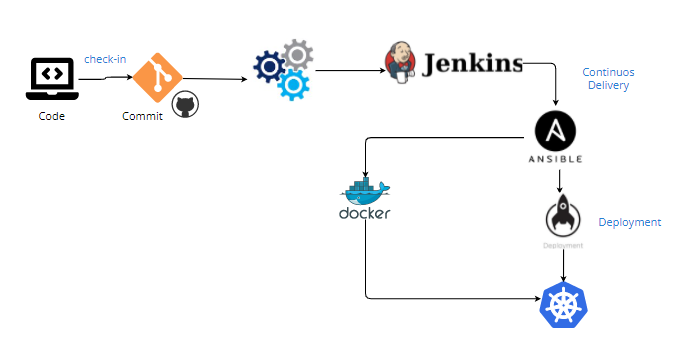
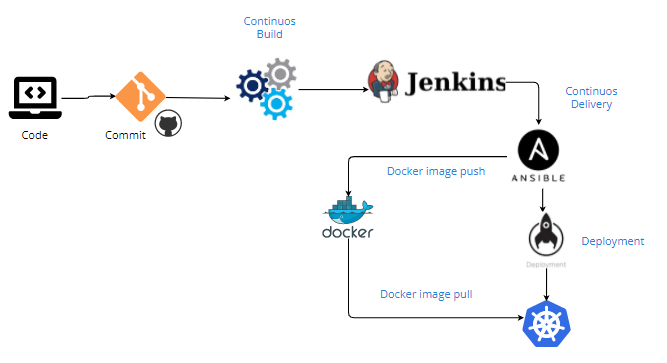
Se agregó imagen de arquitectura

diff --git a/Documentacion.md b/Documentacion.md
@@ -141,10 +141,13 @@ En el sitio web tendremos una sección de quinielas se mostrará el usuario que 
 En la aplicación móvil también se podrá visualizar las quinielas, la única diferencia del diseño web es que en esta sección ya no apareceran los nombres del equipo, solamente el escudo del equipo. 
 
 
-### Diagrama de Arquitectura
+## Diagrama de Arquitectura
 
+<center>
+<img src="Imagenes/Arquitectura.png"/>
+</center>
 
-## Ciclo DevOps
+### Ciclo DevOps
 <center>
 <img src="Imagenes/CicloDevOps.png"/>
 </center>
